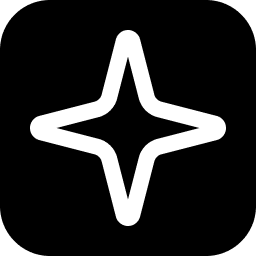
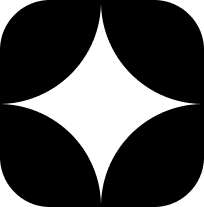
Updated assets

diff --git a/src/app/page.tsx b/src/app/page.tsx
@@ -3,6 +3,7 @@ import { createElement } from 'react';
 import Link from 'next/link';
 
 import Header from '@/components/header';
+import { LogoIcon } from '@/components/logo';
 import MaxWidthWrapper from '@/components/max-width-wrapper';
 import { components } from '@/config/components';
 import { siteConfig } from '@/config/site';
@@ -11,32 +12,36 @@ export default function LandingPage() {
   return (
     <>
       <Header />
-      <MaxWidthWrapper className="space-y-12">
+      <MaxWidthWrapper className="pb-10">
         {/* Hero Section */}
-        <div className="relative rounded-lg overflow-hidden">
-          <div className="h-[400px]" />
-          <div className="absolute inset-0 flex flex-col items-center text-center justify-center bg-accent">
-            <span className="text-5xl font-bold mb-4 ">{siteConfig.name}</span>
-            <p className="text-xl mb-6 text-balance text-muted-foreground">
+        <div className="relative rounded-lg overflow-hidden py-10 h-[300px]">
+          <div className="absolute inset-0 flex flex-col items-center text-center justify-center gap-2">
+            <LogoIcon size={60} />
+            <span className="text-5xl font-bold">{siteConfig.name}</span>
+            <p className="text-xl mb-6 text-balance text-muted-foreground px-6">
               {siteConfig.description}
             </p>
           </div>
         </div>
 
         {/* Featured Components Section */}
-        <section className="pb-10">
-          <h2 className="text-2xl font-bold mb-6">Categories</h2>
-          <div className="space-y-4">
+        <section>
+          <h2 className="text-2xl font-bold mb-6">Components</h2>
+          <div className="grid grid-cols-1 gap-4 md:grid-cols-2">
             {components.map((component, idx) => (
-              <Link key={idx} href={component.path} className="block w-full">
-                <div className="group relative rounded-lg overflow-hidden bg-accent/50 hover:shadow-lg transition-all duration-300 ease-in-out pt-4 px-4  pb-8">
-                  <div className="flex flex-col">
+              <Link
+                key={idx}
+                href={component.path}
+                className="block w-full border rounded-lg border-accent"
+              >
+                <div className="group relative rounded-lg overflow-hidden h-full ju bg-accent/50 hover:shadow-lg transition-all duration-300 ease-in-out pt-4 px-4  pb-8">
+                  <div className="flex flex-col h-full">
                     <div className="mb-4">
                       <span className="font-medium text-foreground text-lg">
                         {component.title}
                       </span>
                     </div>
-                    <div className="flex items-center justify-center">
+                    <div className="flex items-center justify-center flex-1 h-full">
                       {createElement(
                         component.items[0].Component,
                         component.items[0].props,

diff --git a/src/app/layout-builder/page.tsx b/src/app/layout-builder/page.tsx
@@ -124,24 +124,25 @@ export default function TestingPage() {
   return (
     <div className="flex h-screen bg-background text-foreground">
       <aside className="w-64 border-r border-border overflow-auto flex flex-col">
-        <div className="p-4 flex-grow">
-          <div className="flex items-center justify-between mb-4">
+        <div className="flex-grow">
+          <div className="flex items-center justify-between border-b border-border h-[69px] p-4">
             <MainNav />
-
             <ThemeToggle />
           </div>
-          <h2 className="text-lg font-semibold mb-2">Layout Builder</h2>
-          <div className="mb-4">
-            <h3 className="font-medium mb-2">Headers</h3>
-            {renderOptions('header')}
-          </div>
-          <div className="mb-4">
-            <h3 className="font-medium mb-2">Main Content</h3>
-            {renderOptions('main')}
-          </div>
-          <div className="mb-4">
-            <h3 className="font-medium mb-2">Footers</h3>
-            {renderOptions('footer')}
+          <div className="flex flex-col p-4">
+            <h2 className="text-lg font-semibold mb-2">Layout Builder</h2>
+            <div className="mb-2">
+              <h3 className="font-medium mb-2">Headers</h3>
+              {renderOptions('header')}
+            </div>
+            <div className="mb-2">
+              <h3 className="font-medium mb-2">Main Content</h3>
+              {renderOptions('main')}
+            </div>
+            <div className="mb-2">
+              <h3 className="font-medium mb-2">Footers</h3>
+              {renderOptions('footer')}
+            </div>
           </div>
         </div>
 

diff --git a/src/components/logo.tsx b/src/components/logo.tsx
@@ -1,0 +1,34 @@
+import React from 'react';
+
+export type IconProps = {
+  size: number;
+};
+
+export const LogoIcon: React.FC<IconProps> = ({ size }) => (
+  <div className="bg-background rounded-md flex items-center justify-center">
+    <svg
+      xmlns="http://www.w3.org/2000/svg"
+      width={`${size}px`}
+      height={`${size}px`}
+      viewBox="0 0 256 256"
+      className="bg-background rounded-md"
+    >
+      <path
+        d="M128 0C128 16.8092 124.689 33.4538 118.257 48.9835C111.824 64.5132 102.396 78.6238 90.5097 90.5097C78.6238 102.396 64.5132 111.824 48.9835 118.257C33.4538 124.689 16.8092 128 0 128V0H128Z"
+        className="fill-foreground"
+      />
+      <path
+        d="M256 128C239.191 128 222.546 124.689 207.017 118.257C191.487 111.824 177.376 102.396 165.49 90.5097C153.604 78.6238 144.176 64.5132 137.743 48.9835C131.311 33.4538 128 16.8092 128 -5.59506e-06L256 0L256 128Z"
+        className="fill-foreground"
+      />
+      <path
+        d="M-5.59506e-06 128C16.8092 128 33.4538 131.311 48.9835 137.743C64.5132 144.176 78.6238 153.604 90.5097 165.49C102.396 177.376 111.824 191.487 118.257 207.017C124.689 222.546 128 239.191 128 256L0 256L-5.59506e-06 128Z"
+        className="fill-foreground"
+      />
+      <path
+        d="M128 256C128 239.191 131.311 222.546 137.743 207.017C144.176 191.487 153.604 177.376 165.49 165.49C177.376 153.604 191.487 144.176 207.017 137.743C222.546 131.311 239.191 128 256 128L256 256L128 256Z"
+        className="fill-foreground"
+      />
+    </svg>
+  </div>
+);

diff --git a/src/components/header.tsx b/src/components/header.tsx
@@ -5,8 +5,6 @@ import React from 'react';
 import Link from 'next/link';
 
 import { siteConfig } from '@/config/site';
-import useScroll from '@/hooks/use-scroll';
-import { cn } from '@/lib/utils';
 import { GithubIcon } from 'lucide-react';
 
 import MainNav from './main-nav';
@@ -14,23 +12,14 @@ import MaxWidthWrapper from './max-width-wrapper';
 import { ThemeToggle } from './theme-toggle';
 
 export default function Header() {
-  const scrolled = useScroll(10);
-
   return (
-    <header
-      className={cn(
-        `inset-x-0 top-0 z-30 w-full border-accent transition-all duration-300 sticky`,
-        {
-          'border-b backdrop-blur-lg sticky': scrolled,
-        },
-      )}
-    >
+    <header>
       <nav className="w-full h-16 items-center flex justify-center">
         <MaxWidthWrapper className="flex flex-row items-center justify-between">
-          <MainNav />
-          <div className="flex items-center gap-4">
-            <Link href="/builder" className="text-muted-foreground">
-              Builder
+          <div className="flex items-end gap-4">
+            <MainNav />
+            <Link href="/layout-builder" className="text-muted-foreground">
+              Landing Page Builder
             </Link>
           </div>
           <div className="flex items-center gap-2">

diff --git a/src/app/[category]/page.tsx b/src/app/[category]/page.tsx
@@ -3,6 +3,7 @@ import React from 'react';
 import Link from 'next/link';
 import { notFound } from 'next/navigation';
 
+import Header from '@/components/header';
 import MaxWidthWrapper from '@/components/max-width-wrapper';
 import { ComponentConfig, components } from '@/config/components';
 import { cn, makeIntoSlug } from '@/lib/utils';
@@ -22,7 +23,7 @@ export default function CategoryPage({ params }: CategoryPageProps) {
   }
 
   return (
-    <MaxWidthWrapper className="py-8">
+    <MaxWidthWrapper>
       <div className="flex flex-col items-center justify-center text-center gap-2">
         <h1 className="text-2xl md:text-4xl font-bold">
           {componentData.title}

diff --git a/src/components/main-nav.tsx b/src/components/main-nav.tsx
@@ -4,14 +4,12 @@ import React from 'react';
 
 import Link from 'next/link';
 
-import { Sparkle } from 'lucide-react';
+import { LogoIcon } from './logo';
 
 export default function MainNav() {
   return (
     <Link href="/" className="gap-2 flex items-center">
-      <div className="bg-foreground rounded-md p-1 w-7 h-7 flex items-center justify-center">
-        <Sparkle className="stroke-background" size={20} />
-      </div>
+      <LogoIcon size={24} />
       <span className="font-bold text-xl">LumosUI</span>
     </Link>
   );

diff --git a/src/app/[category]/[component]/page.tsx b/src/app/[category]/[component]/page.tsx
@@ -33,7 +33,7 @@ export default async function ComponentPage({
   const sourceCode = await getComponentSource(componentConfig.path);
 
   return (
-    <MaxWidthWrapper>
+    <MaxWidthWrapper className='py-4'>
       <div className="flex flex-col gap-4">
         <BackButton />
         <div className="flex flex-col gap-4">

diff --git a/src/app/[category]/layout.tsx b/src/app/[category]/layout.tsx
@@ -1,0 +1,16 @@
+import React from 'react';
+
+import Header from '@/components/header';
+
+export default async function CategoryLayout({
+  children,
+}: {
+  children: React.ReactNode;
+}) {
+  return (
+    <>
+      <Header />
+      {children}
+    </>
+  );
+}

diff --git a/src/components/max-width-wrapper.tsx b/src/components/max-width-wrapper.tsx
@@ -11,7 +11,7 @@ export default function MaxWidthWrapper({
 }) {
   return (
     <div
-      className={cn('mx-auto w-full md:max-w-3xl px-4', className)}
+      className={cn('mx-auto w-full md:max-w-5xl px-4', className)}
     >
       {children}
     </div>
